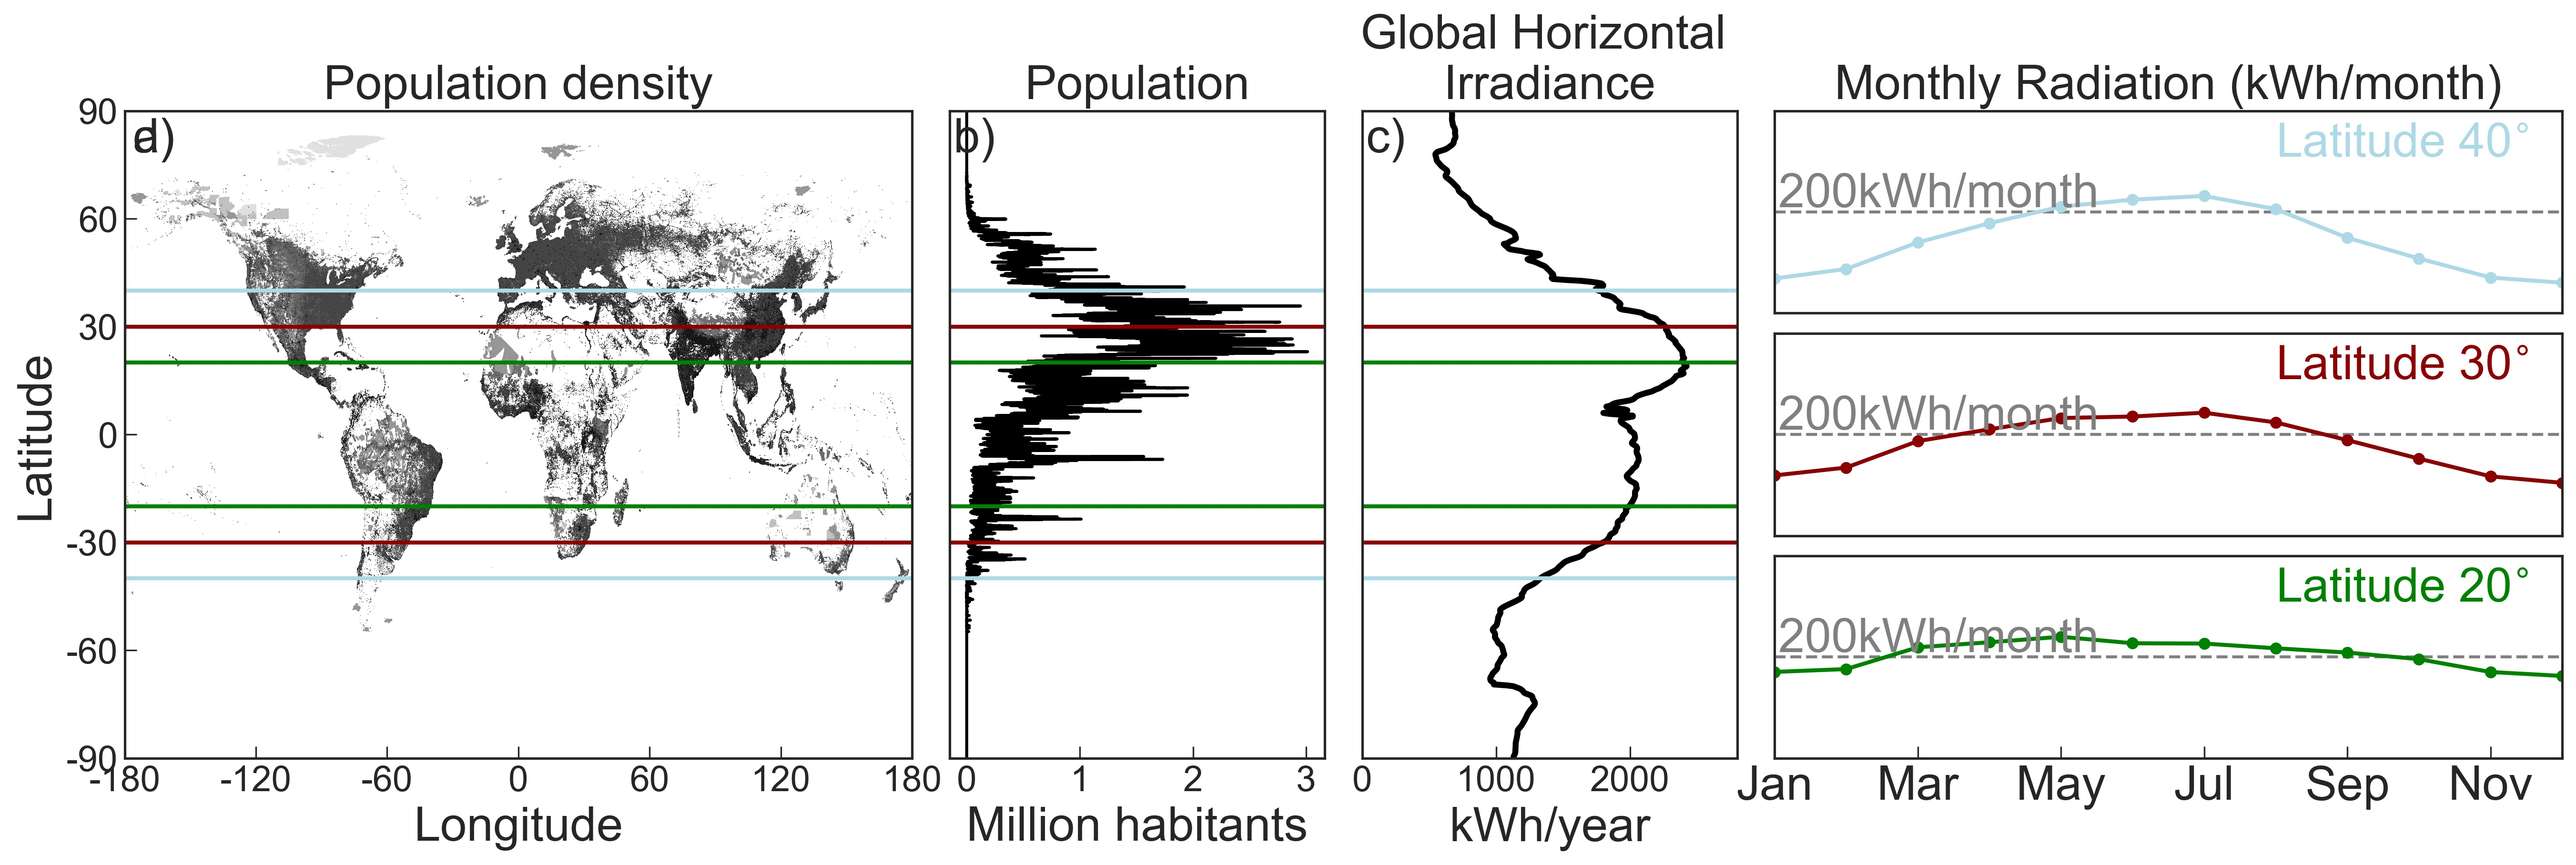
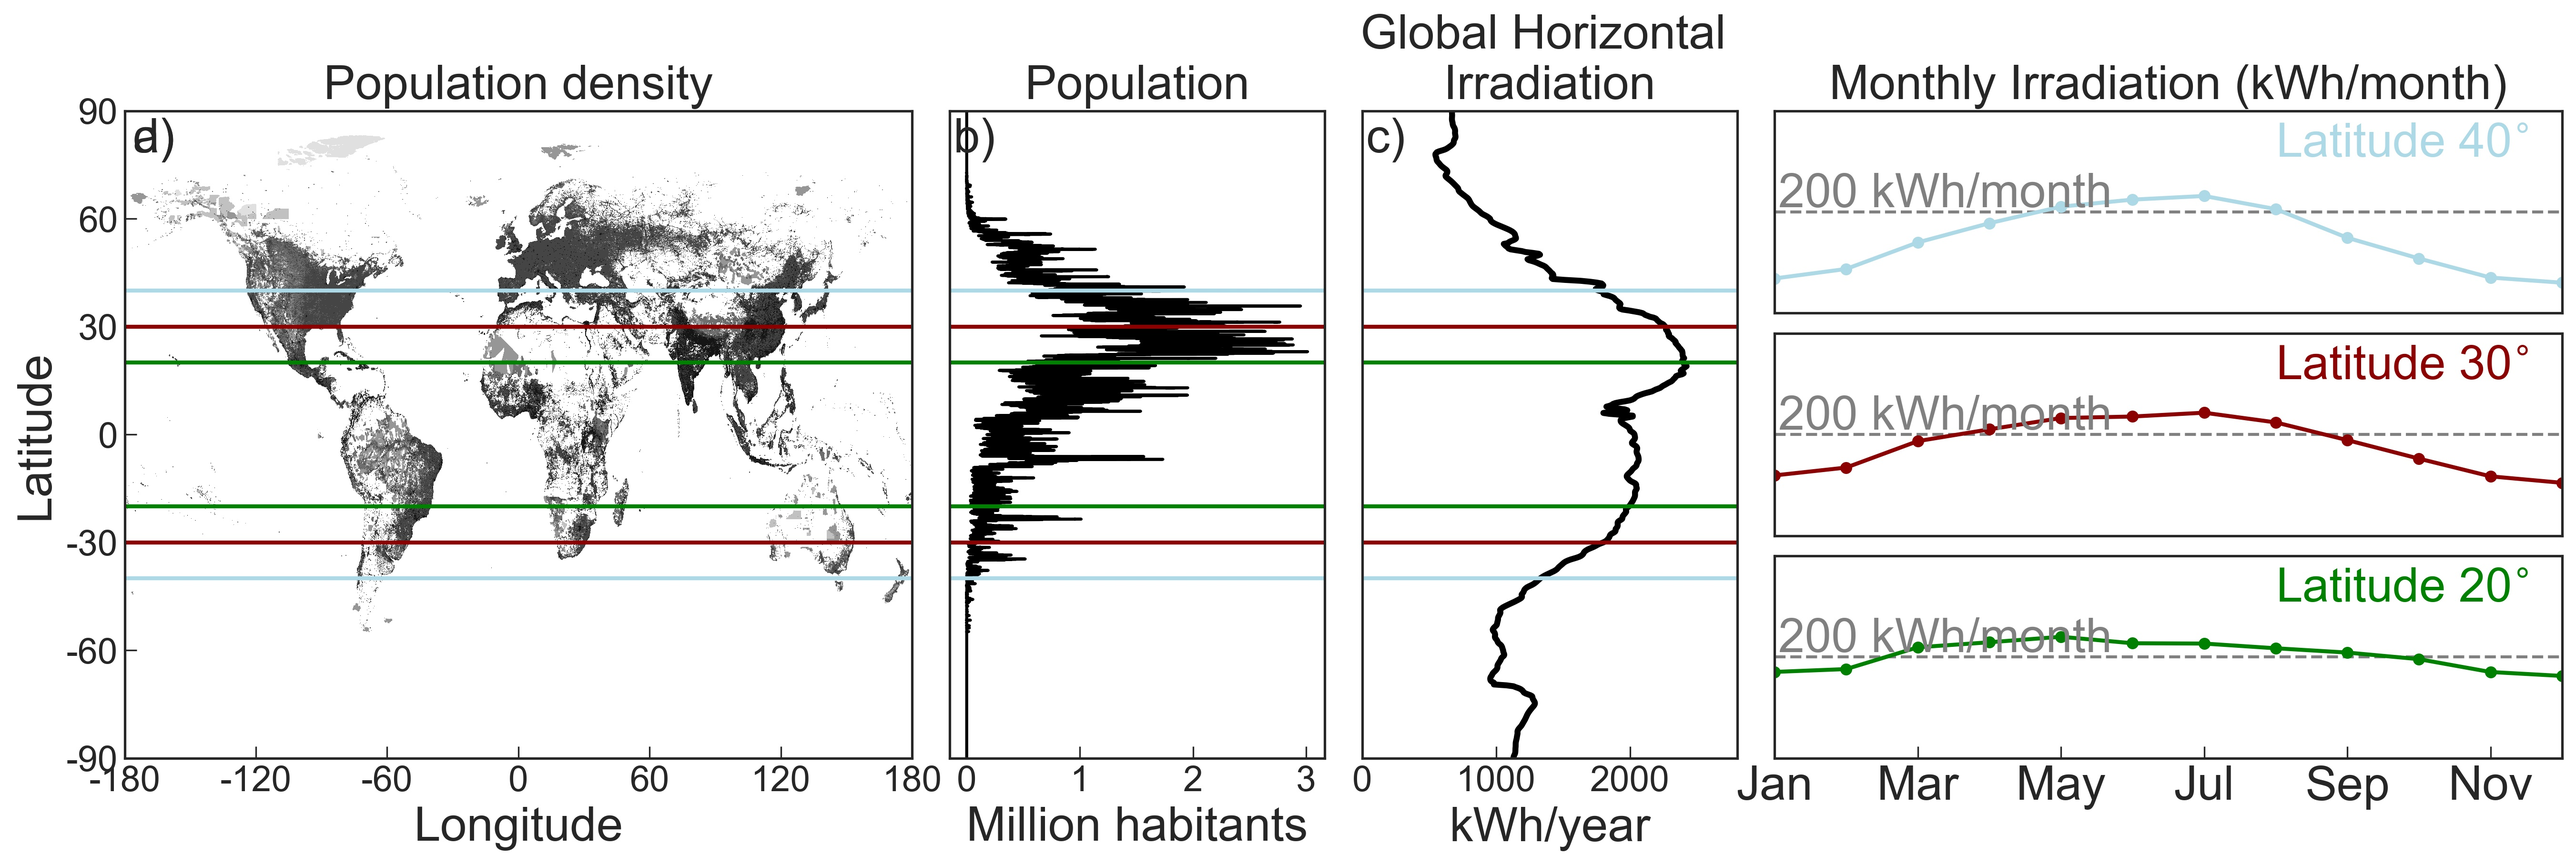
small spelling corrections in Figures chapter 14 and addition Fig 14.10

diff --git a/Figures/Chapter_14/large scale renewable time series_Denmark.py b/Figures/Chapter_14/large scale renewable time series_Denmark.py
@@ -1,0 +1,211 @@
+# -*- coding: utf-8 -*-
+"""
+Modified from: https://atlite.readthedocs.io/en/latest/examples/plotting_with_atlite.html 
+
+"""
+
+import os
+import matplotlib.pyplot as plt
+from matplotlib.gridspec import GridSpec
+import seaborn as sns
+plt.style.use(['seaborn-ticks','../pv-textbook.mplstyle'])
+import geopandas as gpd
+import pandas as pd
+from pandas.plotting import register_matplotlib_converters
+
+register_matplotlib_converters()
+
+import cartopy.crs as ccrs
+from cartopy.crs import PlateCarree as plate
+import cartopy.io.shapereader as shpreader
+
+import xarray as xr
+import atlite
+
+import logging
+import warnings
+
+warnings.simplefilter("ignore")
+logging.captureWarnings(False)
+logging.basicConfig(level=logging.INFO)
+
+#import default color scheme for the book
+import yaml
+with open('../colors.yaml') as file:
+    colors = yaml.load(file, Loader=yaml.FullLoader)
+
+#%%
+#Define countries and shapes
+shpfilename = shpreader.natural_earth(
+    resolution="10m", category="cultural", name="admin_0_countries")
+
+reader = shpreader.Reader(shpfilename)
+
+
+country='Denmark'
+Denmark = gpd.GeoSeries({r.attributes["NAME_EN"]: r.geometry for r in reader.records()},
+    crs={"init": "epsg:4326"},).reindex(["Denmark"])
+
+#%%
+
+
+# Define and download cutout
+cutout = atlite.Cutout(
+    path="Denmark-2020-06", module="era5", bounds=Denmark.unary_union.bounds, #bounds=Iberia.unary_union.bounds, 
+    time="2020-06")
+cutout.prepare()
+
+#%%
+projection = ccrs.Orthographic(10, 55)
+                                      
+cells = cutout.grid
+df = gpd.read_file(gpd.datasets.get_path("naturalearth_lowres"))
+country_bound = gpd.GeoSeries(cells.unary_union)
+
+
+fig, ax = plt.subplots(subplot_kw={"projection": projection}, figsize=(6, 6))
+df.plot(ax=ax, transform=plate())
+country_bound.plot(ax=ax, edgecolor="firebrick", facecolor="None", transform=plate())
+fig.tight_layout()
+plt.savefig('figures/global_view_{}.jpg'.format(country), 
+            dpi=300, bbox_inches='tight')
+#%%
+fig = plt.figure(figsize=(12, 7))
+gs = GridSpec(3, 3, figure=fig)
+
+ax = fig.add_subplot(gs[:, 0:2], projection=projection)
+plot_grid_dict = dict(
+    alpha=0.1,
+    edgecolor="k",
+    zorder=4,
+    aspect="equal",
+    facecolor="None",
+    transform=plate(),
+)
+Denmark.plot(ax=ax, zorder=1, transform=plate())
+cells.plot(ax=ax, **plot_grid_dict)
+country_bound.plot(ax=ax, edgecolor="firebrick", facecolor="None", transform=plate())
+ax.outline_patch.set_edgecolor("white")
+
+ax1 = fig.add_subplot(gs[1, 2])
+cutout.data.wnd100m.mean(["x", "y"]).plot(ax=ax1, color=colors['color3'])
+ax1.set_frame_on(False)
+ax1.xaxis.set_visible(False)
+ax1.set_ylabel("Wind velocity \n 100 m (m/s)")
+
+ax2 = fig.add_subplot(gs[0, 2], sharex=ax1)
+cutout.data.influx_direct.mean(["x", "y"]).plot(ax=ax2, color=colors['color5'])
+ax2.set_frame_on(False)
+ax2.xaxis.set_visible(False)
+ax2.set_ylabel("Solar irradiation \n (W/m2)")
+
+ax3 = fig.add_subplot(gs[2, 2], sharex=ax1)
+cutout.data.runoff.mean(["x", "y"]).plot(ax=ax3, color=colors['color1'])
+times=cutout.data.runoff.mean(["x", "y"])["time"]
+ax3.set_frame_on(False)
+ax3.set_xlabel(None)
+ax3.set_ylabel("Runoff")
+ax3.set_xticks([times.values[0],
+                times.values[250],
+                times.values[500],
+                times.values[719],])
+fig.tight_layout()
+
+plt.savefig('figures/cutout_time_series_{}.jpg'.format(country), 
+            dpi=300, bbox_inches='tight')
+
+#%%
+#annual capacity factors for wind and solar PV
+cap_factors = cutout.wind(turbine="Vestas_V112_3MW", capacity_factor=True)
+
+fig, ax = plt.subplots(subplot_kw={"projection": projection}, 
+                       figsize=(11, 4))
+cap_factors.name = "Capacity Factor Wind"
+cap_factors.plot(ax=ax, transform=plate(), alpha=0.8, cmap='winter_r')
+
+cells.plot(ax=ax, **plot_grid_dict)
+ax.outline_patch.set_edgecolor("white")
+fig.tight_layout();
+
+plt.savefig('figures/capacity_factor_wind_{}.jpg'.format(country), 
+            dpi=300, bbox_inches='tight')
+
+#%%
+cap_factors = 0.5*cutout.pv(panel="CSi", 
+                        orientation={"slope": 30.0, "azimuth": 180.0},
+                        capacity_factor=True)
+
+fig, ax = plt.subplots(subplot_kw={"projection": projection}, 
+                       figsize=(11, 4))
+cap_factors.name = "Capacity Factor Solar PV"
+
+cap_factors.plot(ax=ax, transform=plate(), alpha=0.7, cmap='autumn')
+cells.plot(ax=ax, **plot_grid_dict)
+ax.outline_patch.set_edgecolor("white")
+fig.tight_layout();
+
+plt.savefig('figures/capacity_factor_solar_{}.jpg'.format(country), 
+            dpi=300, bbox_inches='tight')
+#%%
+sites = gpd.GeoDataFrame(
+        [["Grid cell a", -3.703, 40.416, 1000], #Madrid
+        ["Grid cell b", -6, 37.39, 700], #Sevilla
+       ["Grid cell c", -0.89, 41.65, 500], #Zaragoza
+       ],
+       columns=["name", "x", "y", "capacity"],).set_index("name")
+
+nearest = cutout.data.sel({"x": sites.x.values, "y": sites.y.values}, "nearest").coords
+sites["x"] = nearest.get("x").values
+sites["y"] = nearest.get("y").values
+cells_generation = sites.merge(cells, how="inner").rename(pd.Series(sites.index))
+
+layout = (xr.DataArray(cells_generation.set_index(["y", "x"]).capacity.unstack())
+    .reindex_like(cap_factors)
+    .rename("Installed Capacity [MW]"))
+
+fig, ax = plt.subplots(subplot_kw={"projection": projection}, figsize=(6, 3))
+
+Denmark.plot(ax=ax, zorder=1, transform=plate(), alpha=0.3)
+cells.plot(ax=ax, **plot_grid_dict)
+layout.plot(ax=ax, transform=plate(), cmap="Reds", vmin=0, label="Installed Capacity [MW]")
+ax.outline_patch.set_edgecolor("white")
+fig.tight_layout()
+plt.savefig('figures/capacity_layout_solar_{}.jpg'.format(country), 
+            dpi=300, bbox_inches='tight')
+
+#%%
+fig, axes = plt.subplots(len(sites)+1, sharex=True, figsize=(6, 8))
+# power_generation = cutout.wind(
+#     "Vestas_V112_3MW", layout=layout, shapes=cells_generation.geometry)
+
+power_generation=cutout.pv(panel="CSi", orientation={"slope": 30.0, "azimuth": 180.0},
+                        shapes=cells_generation.geometry)
+
+power_generation.to_pandas().plot(subplots=True, ax=[axes[0], axes[1], axes[2]], legend=False, 
+                                  color=[colors['color2'], colors['color4'],colors['color5'],])
+
+fig.tight_layout()
+axes[0].set_ylim([0,1])
+axes[1].set_ylim([0,1])
+axes[2].set_ylim([0,1])
+axes[0].set_title("Capacity Factor")
+axes[0].set_ylabel("grid cell a")
+axes[1].set_ylabel("grid cell b")
+axes[2].set_ylabel("grid cell c")
+
+power_generation = (1/3)*(cutout.pv(panel="CSi", orientation={"slope": 30.0, "azimuth": 180.0},
+                             layout=layout.fillna(0), shapes=Denmark) #shapes=UkIr)
+                             .to_pandas()
+                             .rename_axis(index="", columns="shapes",
+                                          ))    
+
+power_generation["Spain"].plot.area(ax=axes[3], title="Spain", color=colors['color5'])
+axes[3].set_title=('')
+axes[3].set_ylabel("aggregated")
+axes[3].set_ylim([0,1])
+
+fig.tight_layout()
+plt.savefig('figures/grid_cell_agregated_timeseries_solar_{}.jpg'.format(country), 
+            dpi=300, bbox_inches='tight')
+
+

diff --git a/Figures/Chapter_14/population_radiation_seasonality.py b/Figures/Chapter_14/population_radiation_seasonality.py
@@ -173,7 +173,7 @@ ax2.text(.01, .99, 'c)',
          va='top', 
          transform=ax2.transAxes,
          fontsize=large_font_size)
-ax2.set_title('Global Horizontal \n Irradiance ', fontsize=large_font_size)
+ax2.set_title('Global Horizontal \n Irradiation ', fontsize=large_font_size)
 ax2.plot(irrad_annual/1000, 
          latitudes,
          color='black', 
@@ -199,7 +199,7 @@ for j,lat in enumerate(lats_ref):
     ax3 = plt.subplot(gs[j,4:6])
     ax3.set_yticks([])
     ax3.set_xlim([0,11])
-    ax3.text(0.05, 210,'200kWh/month', color='grey', 
+    ax3.text(0.05, 210,'200 kWh/month', color='grey', 
              fontsize=large_font_size)
     ax3.plot([0,12], [200,200], color='grey', linestyle='--')
     ax3.set_ylim([0,400])
@@ -211,7 +211,7 @@ for j,lat in enumerate(lats_ref):
     ax3.text(7, 310,'Latitude '+str(lat)+'$^{\circ}$', 
              color=colors_[j], fontsize=large_font_size)
     if j==0:
-        ax3.set_title('Monthly Radiation (kWh/month)', fontsize=large_font_size)
+        ax3.set_title('Monthly Irradiation (kWh/month)', fontsize=large_font_size)
         ax3.text(.01, .99, 'd)', 
                  ha='left',
                  va='top', 
